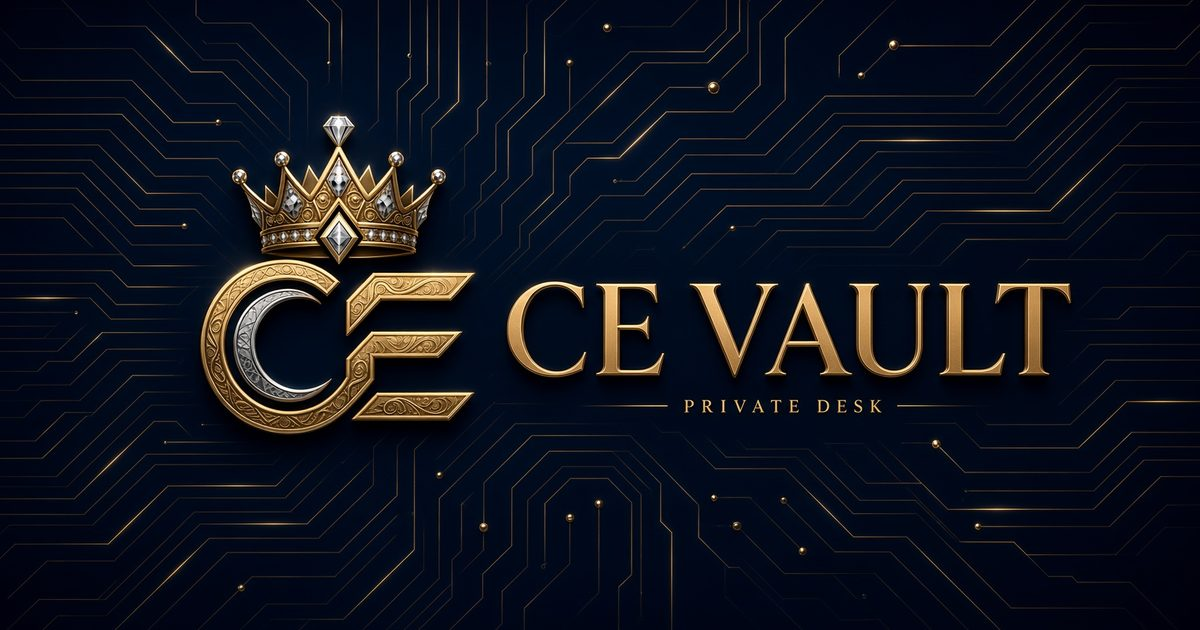
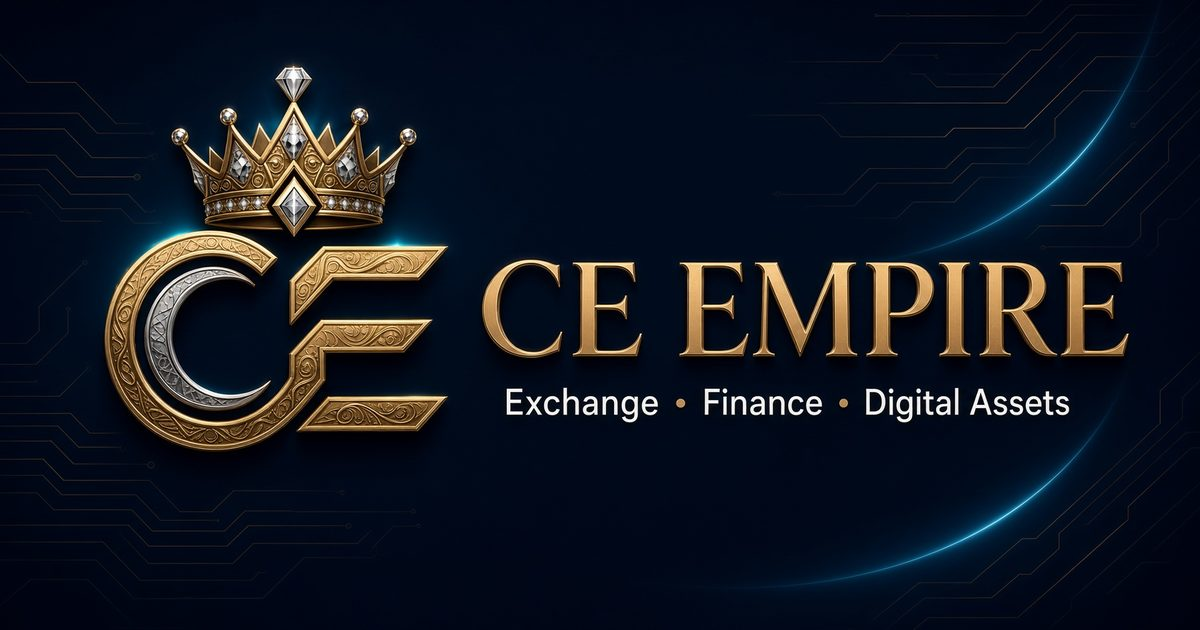
Sync start cards to CE EMPIRE og art and gold-line the desk nav pills
Room rail stays green for the live room. Staff title is still CE Vault.

diff --git a/app/desk-board.css b/app/desk-board.css
@@ -95,6 +95,17 @@
   min-width:0;
   flex:1 1 220px;
 }
+.desk-board .nav .qd-pill{
+  border:1px solid rgba(212,175,88,.48);
+  background:linear-gradient(180deg, rgba(212,175,88,.14), rgba(8,18,34,.4));
+  color:#e8d5a3;
+}
+.desk-board .nav .qd-pill.is-on{
+  color:#1a1408;
+  background:linear-gradient(180deg, #f0d48a, #c9a227);
+  border-color:rgba(240,212,138,.9);
+  box-shadow:0 0 16px color-mix(in oklch, #d4af56 40%, transparent);
+}
 .desk-board .ce-mark{
   width:36px;
   height:36px;
